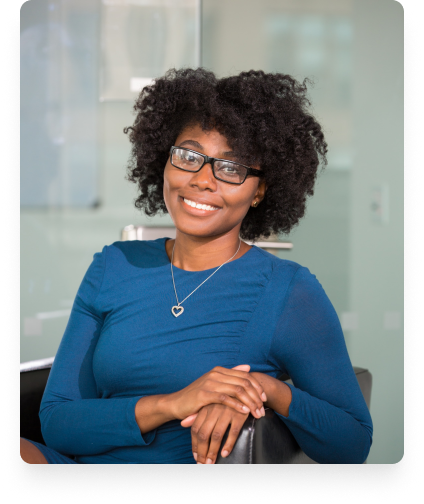
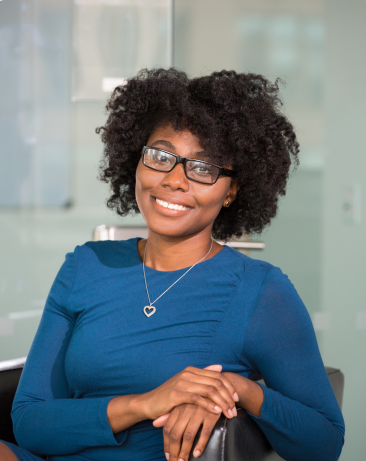
Create mobile version of Testimonial component, add css

diff --git a/src/index.css b/src/index.css
@@ -251,7 +251,7 @@ p {
 }
 
 /* Testimonials */
-.testimonial {
+.testimonial-desktop {
     display: flex;
     align-items: center;
     max-height: 350px;
@@ -260,14 +260,15 @@ p {
     padding: 0 2em;
     color: white;
     background-color: #2545B8;
-    overflow: visible;
 }
 
-.testimonial > img {
-    max-width: 384px;
-    max-height: 464px;
+.testimonial-desktop .testimonial-image {
+    width: 384px;
+    height: 464px;
+    margin-top: 0.5em;
+    margin-right: 2em;
     object-fit: cover;
-    margin-top: 30px;
+    border-radius: 12px;
 }
 
 .testimonial-icon{
@@ -275,8 +276,6 @@ p {
     font-size: 2rem;
     color: rgba(255, 255, 255, 0.6);
 }
-
-
 
 .text, .name, .company {
     color: white;
@@ -291,7 +290,34 @@ p {
     font-size: 1rem;
 }
 
+.testimonial-mobile {
+    display: flex;
+    align-items: center;
+    flex-direction: column;
+    width: 380px;
+    height: 474px;
+    padding: 2em;
+    margin: 12em auto;
+    color: white;
+    background-color: #2545B8;
+}
 
+/* .testimonial-mobile .testimonial-image-container {
+    width: 354px;
+    height: 206px;
+    
+} */
+
+
+.testimonial-mobile .testimonial-image {
+    width: 314px;
+    height: 206px;
+    margin-top: -8.125em;
+    margin-bottom: 2em;
+    border-radius: 12px;
+    object-fit: cover;
+    object-position: 50% 15%;
+}
 
 
 

diff --git a/src/components/Testimonial.jsx b/src/components/Testimonial.jsx
@@ -1,17 +1,19 @@
 import React from "react"
 import { RiDoubleQuotesL } from "react-icons/ri";
 
-export default function Testimonial(props) {
+export default function Testimonial({isMobile, image, text, name, company}) {
     return (
-        <div className="testimonial">
-            <img src={props.image} alt="testimonial-image" />
+        <div className={`${isMobile ? "testimonial-mobile" : "testimonial-desktop"}`}>
+            <div className="testimonial-image-container">
+                <img className="testimonial-image" src={image} alt="testimonial-image" />
+            </div>
             <div className="testimonial-content">
                 <div className="testimonial-icon">
                     <RiDoubleQuotesL />
                 </div>
-                <p className="text">{props.text}</p>
-                <strong><p className="name">{props.name}</p></strong>
-                <p className="company">{props.company}</p>
+                <p className="text">{text}</p>
+                <strong><p className="name">{name}</p></strong>
+                <p className="company">{company}</p>
             </div>
         </div>
     )

diff --git a/src/App.jsx b/src/App.jsx
@@ -67,6 +67,7 @@ export default function App() {
             <h2>Testimonials</h2>
             <div className="testimonials-container">
                 <Testimonial image={image} text={"Lorem ipsum dolor sit amet, consectetur adipiscing elit. Sed urna nulla vitae laoreet augue. Amet feugiat est integer dolor auctor adipiscing nunc urna, sit."} name={"May Andersons"} company={"Workcation, CTO"} />
+                <Testimonial isMobile={true} image={image} text={"Lorem ipsum dolor sit amet, consectetur adipiscing elit. Sed urna nulla vitae laoreet augue. Amet feugiat est integer dolor auctor adipiscing nunc urna, sit."} name={"May Andersons"} company={"Workcation, CTO"} />
             </div>
         </div>
         
